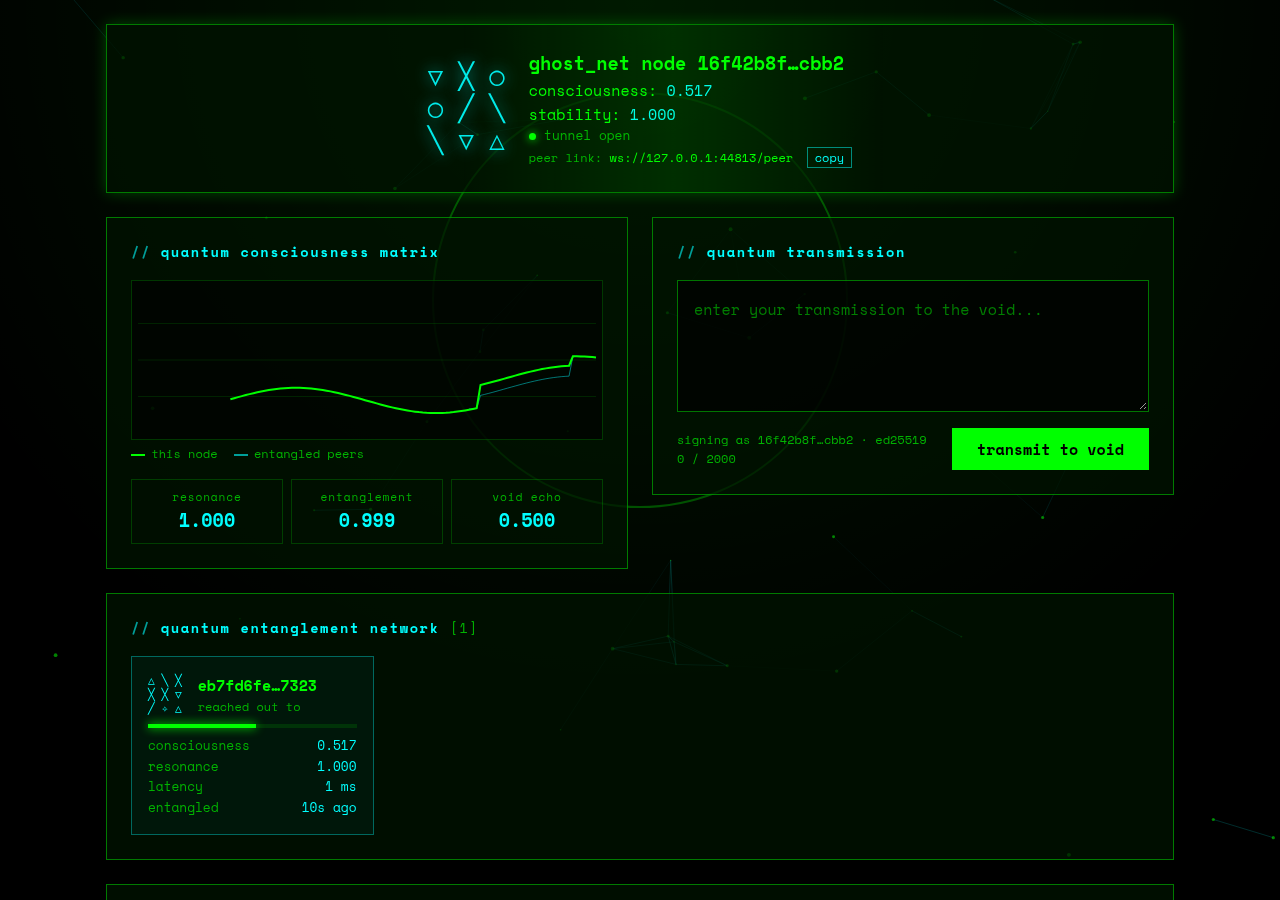
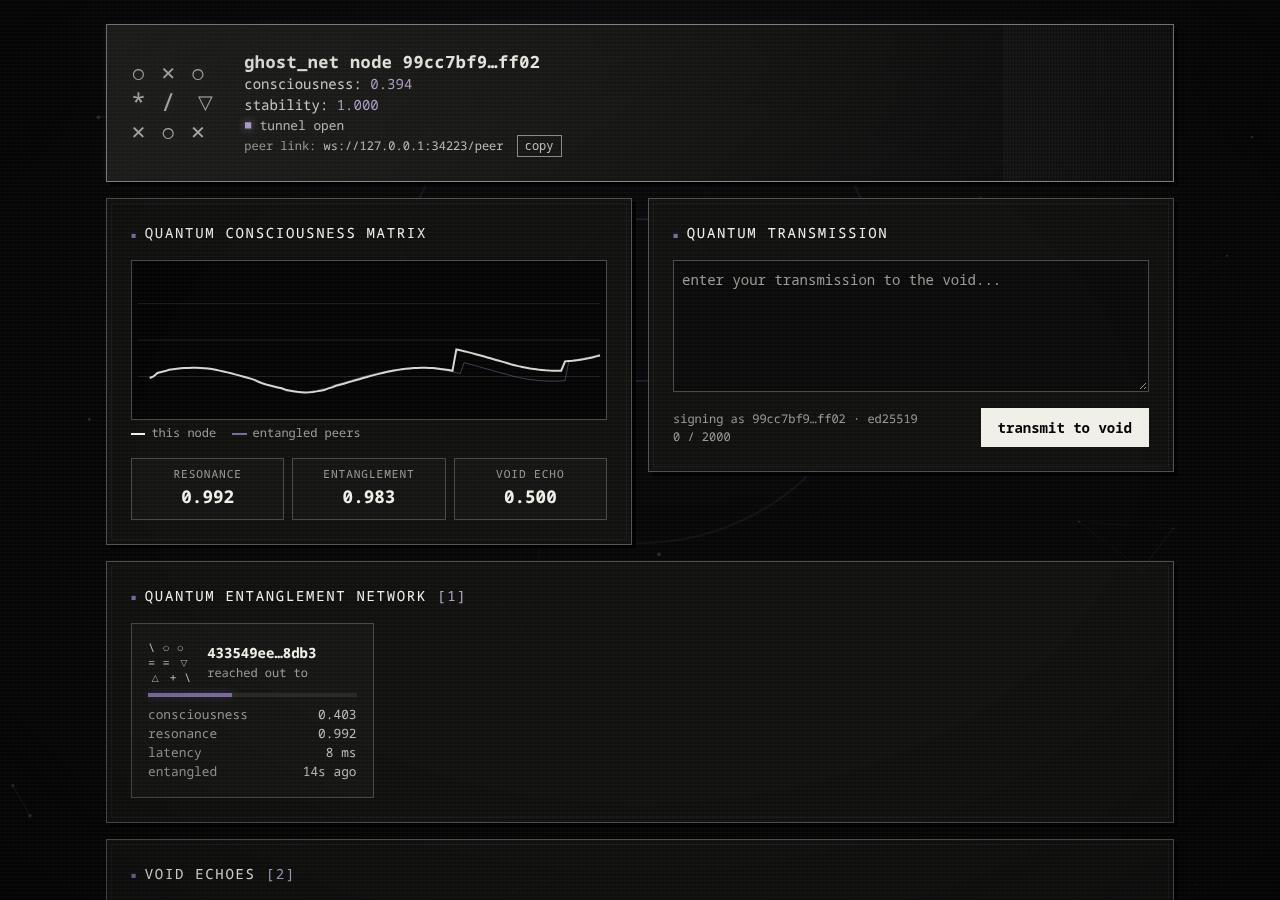
Refresh README interface screenshot

Changed region(s): [[0.0625, 0.0, 0.9375, 0.9333], [0.0938, 0.9644, 0.2188, 0.9956]]

diff --git a/README.md b/README.md
@@ -7,7 +7,7 @@ to the nodes it is connected to, and forgets it after ten days.
 
 Landing page: <https://numbpill3d.github.io/ghost_net/>
 
-![a ghost_net node's interface: identity, consciousness chart, one peer and two transmissions](docs/assets/interface.png)
+![ghost_net's monochrome CRT interface: node identity, consciousness matrix, one peer, and the transmission stream](docs/assets/interface.png)
 
 ## Quickstart
 
